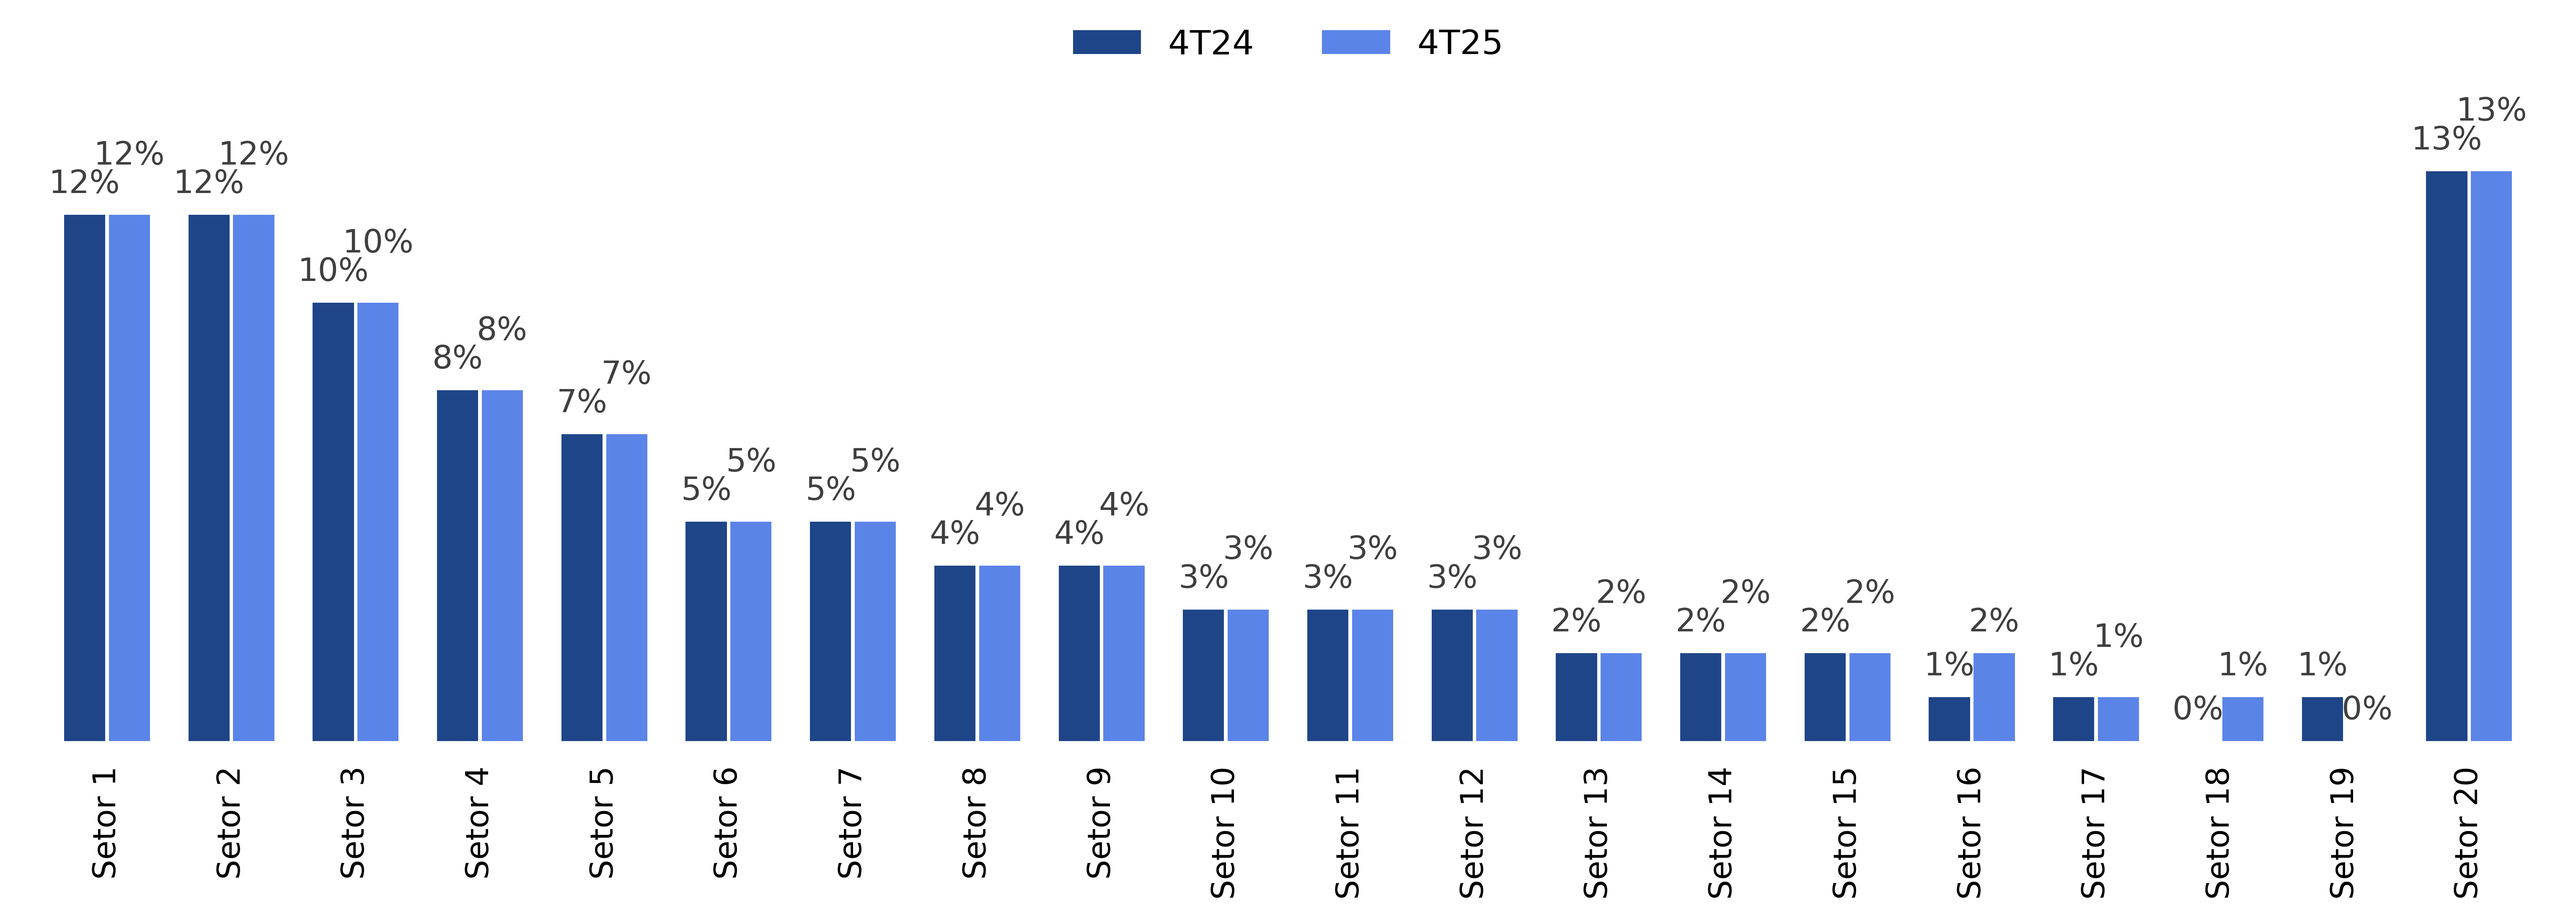
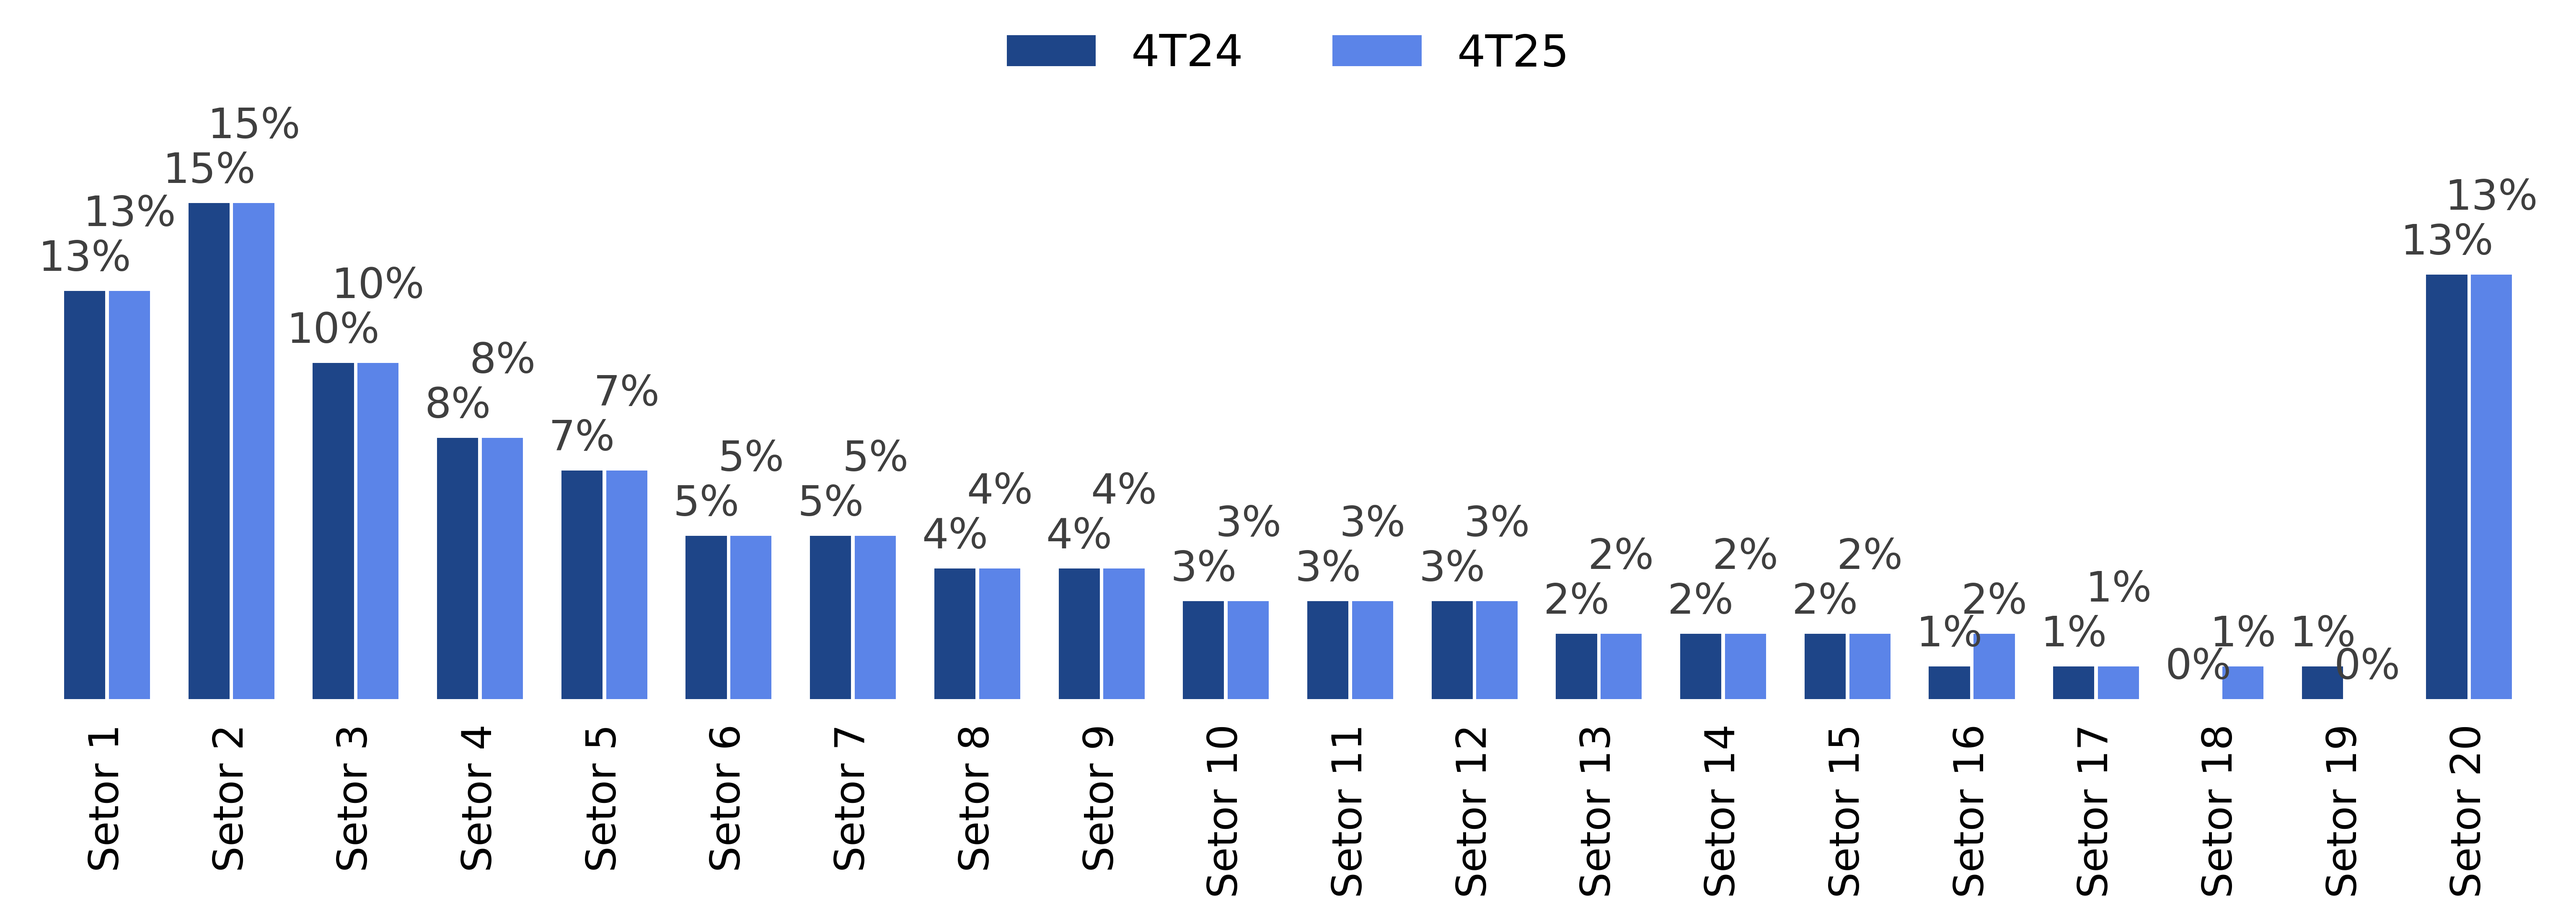
slide 21 adjustments

diff --git a/utils/slide21_charts.py b/utils/slide21_charts.py
@@ -20,7 +20,7 @@ SLIDE21_STACKED_BAR_WIDTH = 0.20
 SLIDE21_STACKED_FONT_SCALE = 1.2
 SLIDE21_COMPARATIVE_FIGSIZE = (13.6, 4.8)
 SLIDE21_COMPARATIVE_BAR_WIDTH = 0.36
-SLIDE21_COMPARATIVE_FONT_SCALE = 1.3
+SLIDE21_COMPARATIVE_FONT_SCALE = 1.7
 SLIDE21_COMPARATIVE_COLORS = ("#1E4588", "#5B84E8")
 SLIDE21_STACKED_COLOR_BY_KEY = {
     "pme": "#9AA0A6",
@@ -399,8 +399,8 @@ def _plot_comparative_bars(
         float(np.nanmax(right)) if right.size else 0.0,
     )
     label_gap = max(max_val * 0.02, 0.35)
-    overlap_threshold = max(max_val * 0.015, 0.18)
-    stagger_gap = max(max_val * 0.05, 0.55)
+    overlap_threshold = max(max_val * 0.02, 0.24)
+    stagger_gap = max(max_val * 0.09, 0.95)
     label_top_max = 0.0
 
     for left_rect, right_rect, left_value, right_value in zip(bars_left, bars_right, left, right):
